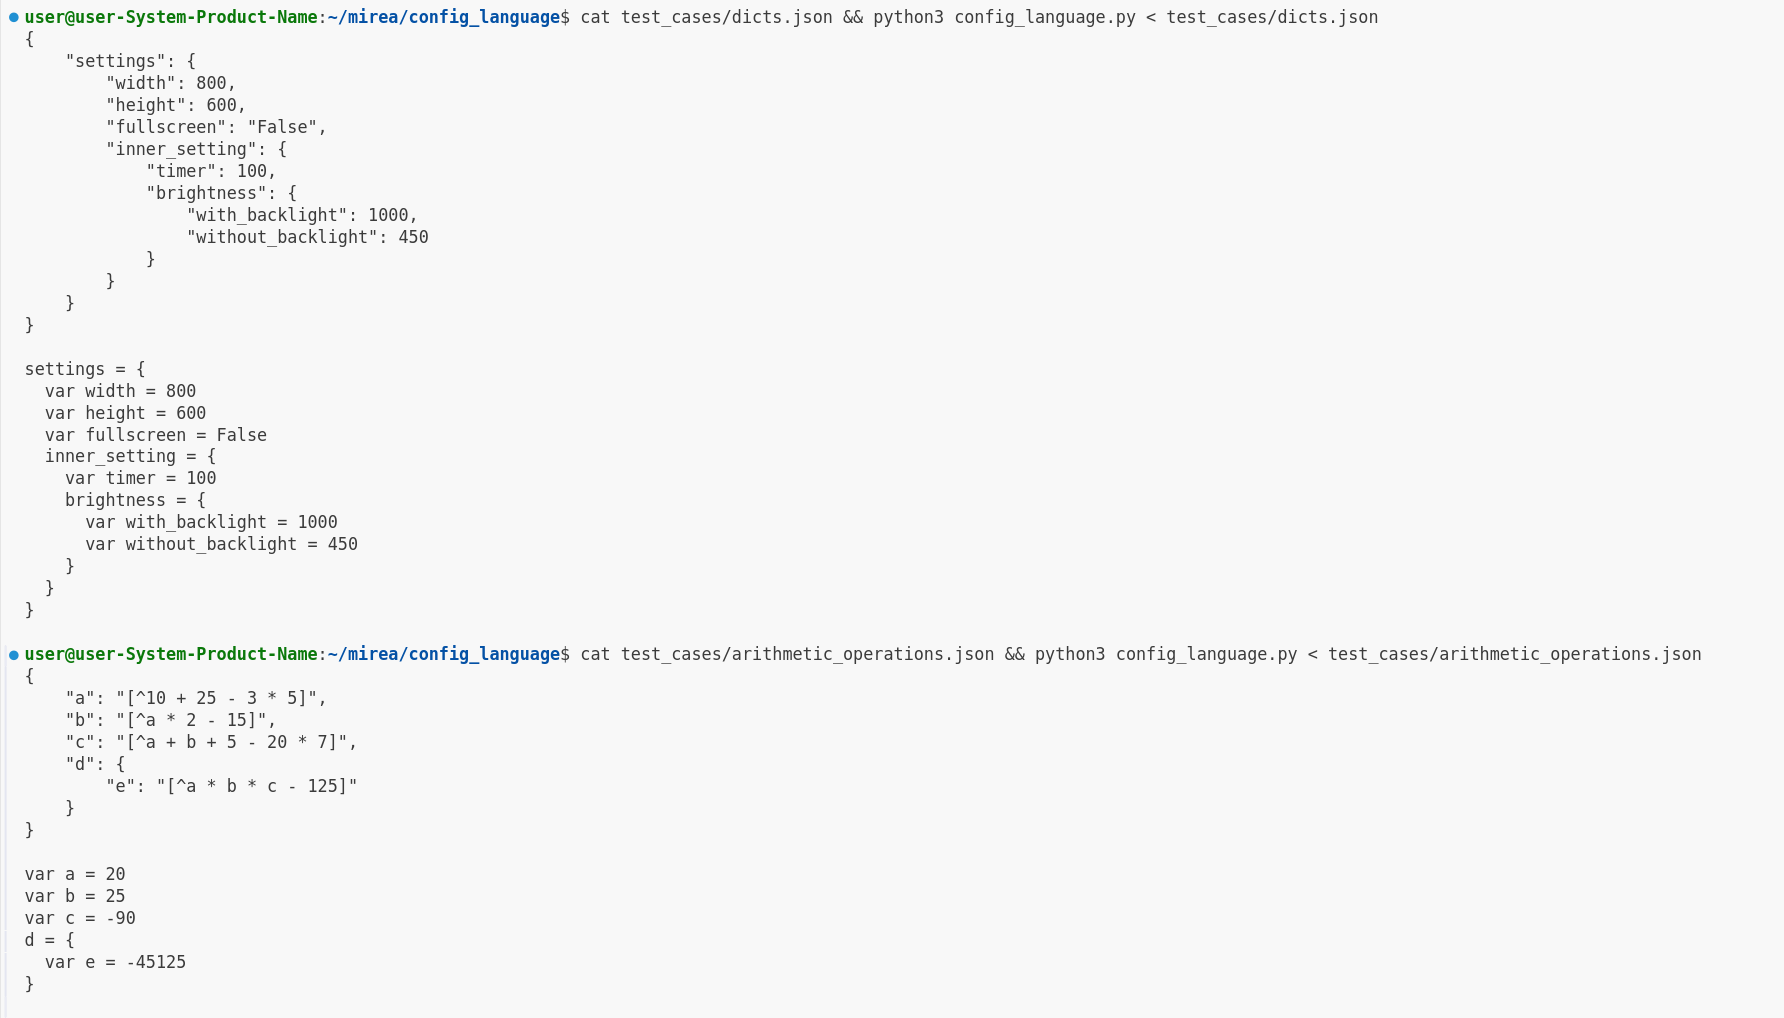
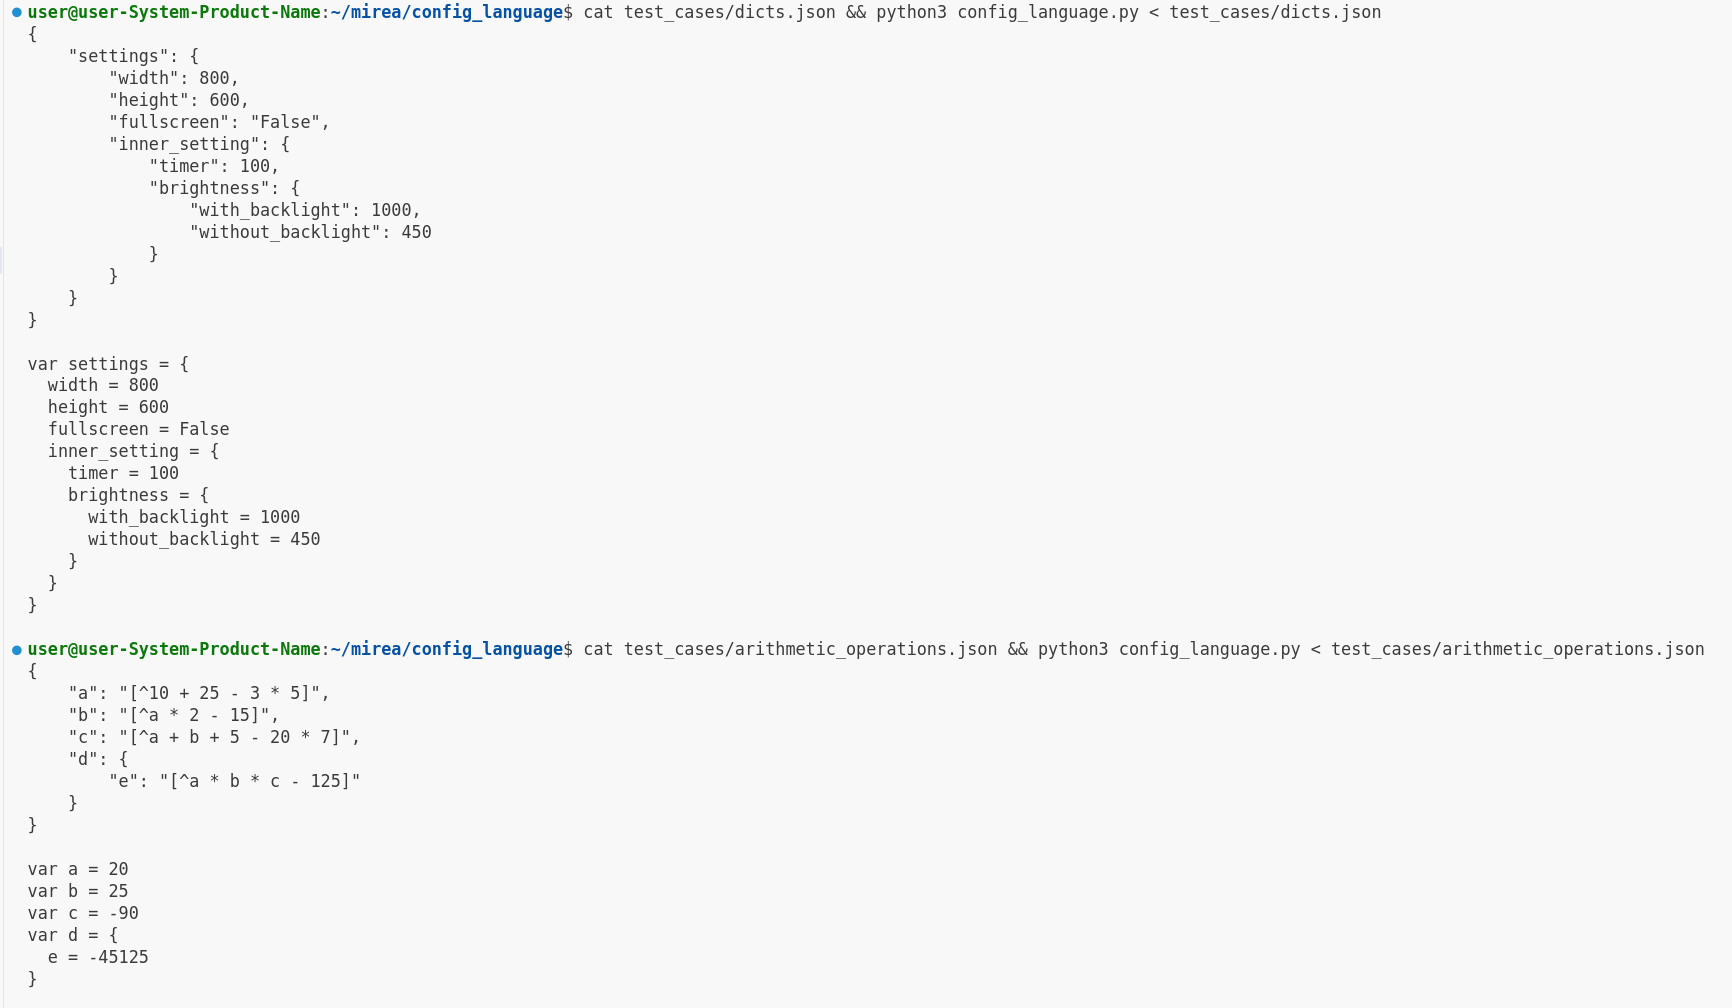
var fix

diff --git a/test_config_language.py b/test_config_language.py
@@ -21,15 +21,15 @@ class TestConfigLanguage(unittest.TestCase):
             }
         }
         expected_output = (
-            "settings = {\n"
-            "  var width = 800\n"
-            "  var height = 600\n"
-            "  var fullscreen = False\n"
+            "var settings = {\n"
+            "  width = 800\n"
+            "  height = 600\n"
+            "  fullscreen = False\n"
             "  inner_setting = {\n"
-            "    var timer = 100\n"
+            "    timer = 100\n"
             "    brightness = {\n"
-            "      var with_backlight = 1000\n"
-            "      var without_backlight = 450\n"
+            "      with_backlight = 1000\n"
+            "      without_backlight = 450\n"
             "    }\n"
             "  }\n"
             "}\n"
@@ -66,8 +66,8 @@ class TestConfigLanguage(unittest.TestCase):
             "var a = 20\n"
             "var b = 25\n"
             "var c = -90\n"
-            "d = {\n"
-            "  var e = -45125\n"
+            "var d = {\n"
+            "  e = -45125\n"
             "}\n"
         )
         output = self.config_lang.parse_json(json_data)

diff --git a/config_language.py b/config_language.py
@@ -28,7 +28,7 @@ class ConfigLanguage:
             if isinstance(value, dict):
                 result += f"{indent}{key} = {self.parse_value(value, level + 1)}\n"
             else:
-                result += f"{indent}var {key} = {self.parse_value(value, level)}\n"
+                result += f"{indent}{key} = {self.parse_value(value, level)}\n"
         result += '  ' * (level - 1) + "}"
         return result
 
@@ -52,7 +52,7 @@ class ConfigLanguage:
         output = ""
         for key, value in data.items():
             if isinstance(value, dict):
-                output += f"{key} = {self.convert_dict(value)}\n"
+                output += f"var {key} = {self.convert_dict(value)}\n"
             else:
                 output += f"{self.define_variable(key, self.parse_value(value))}\n"
         return output
